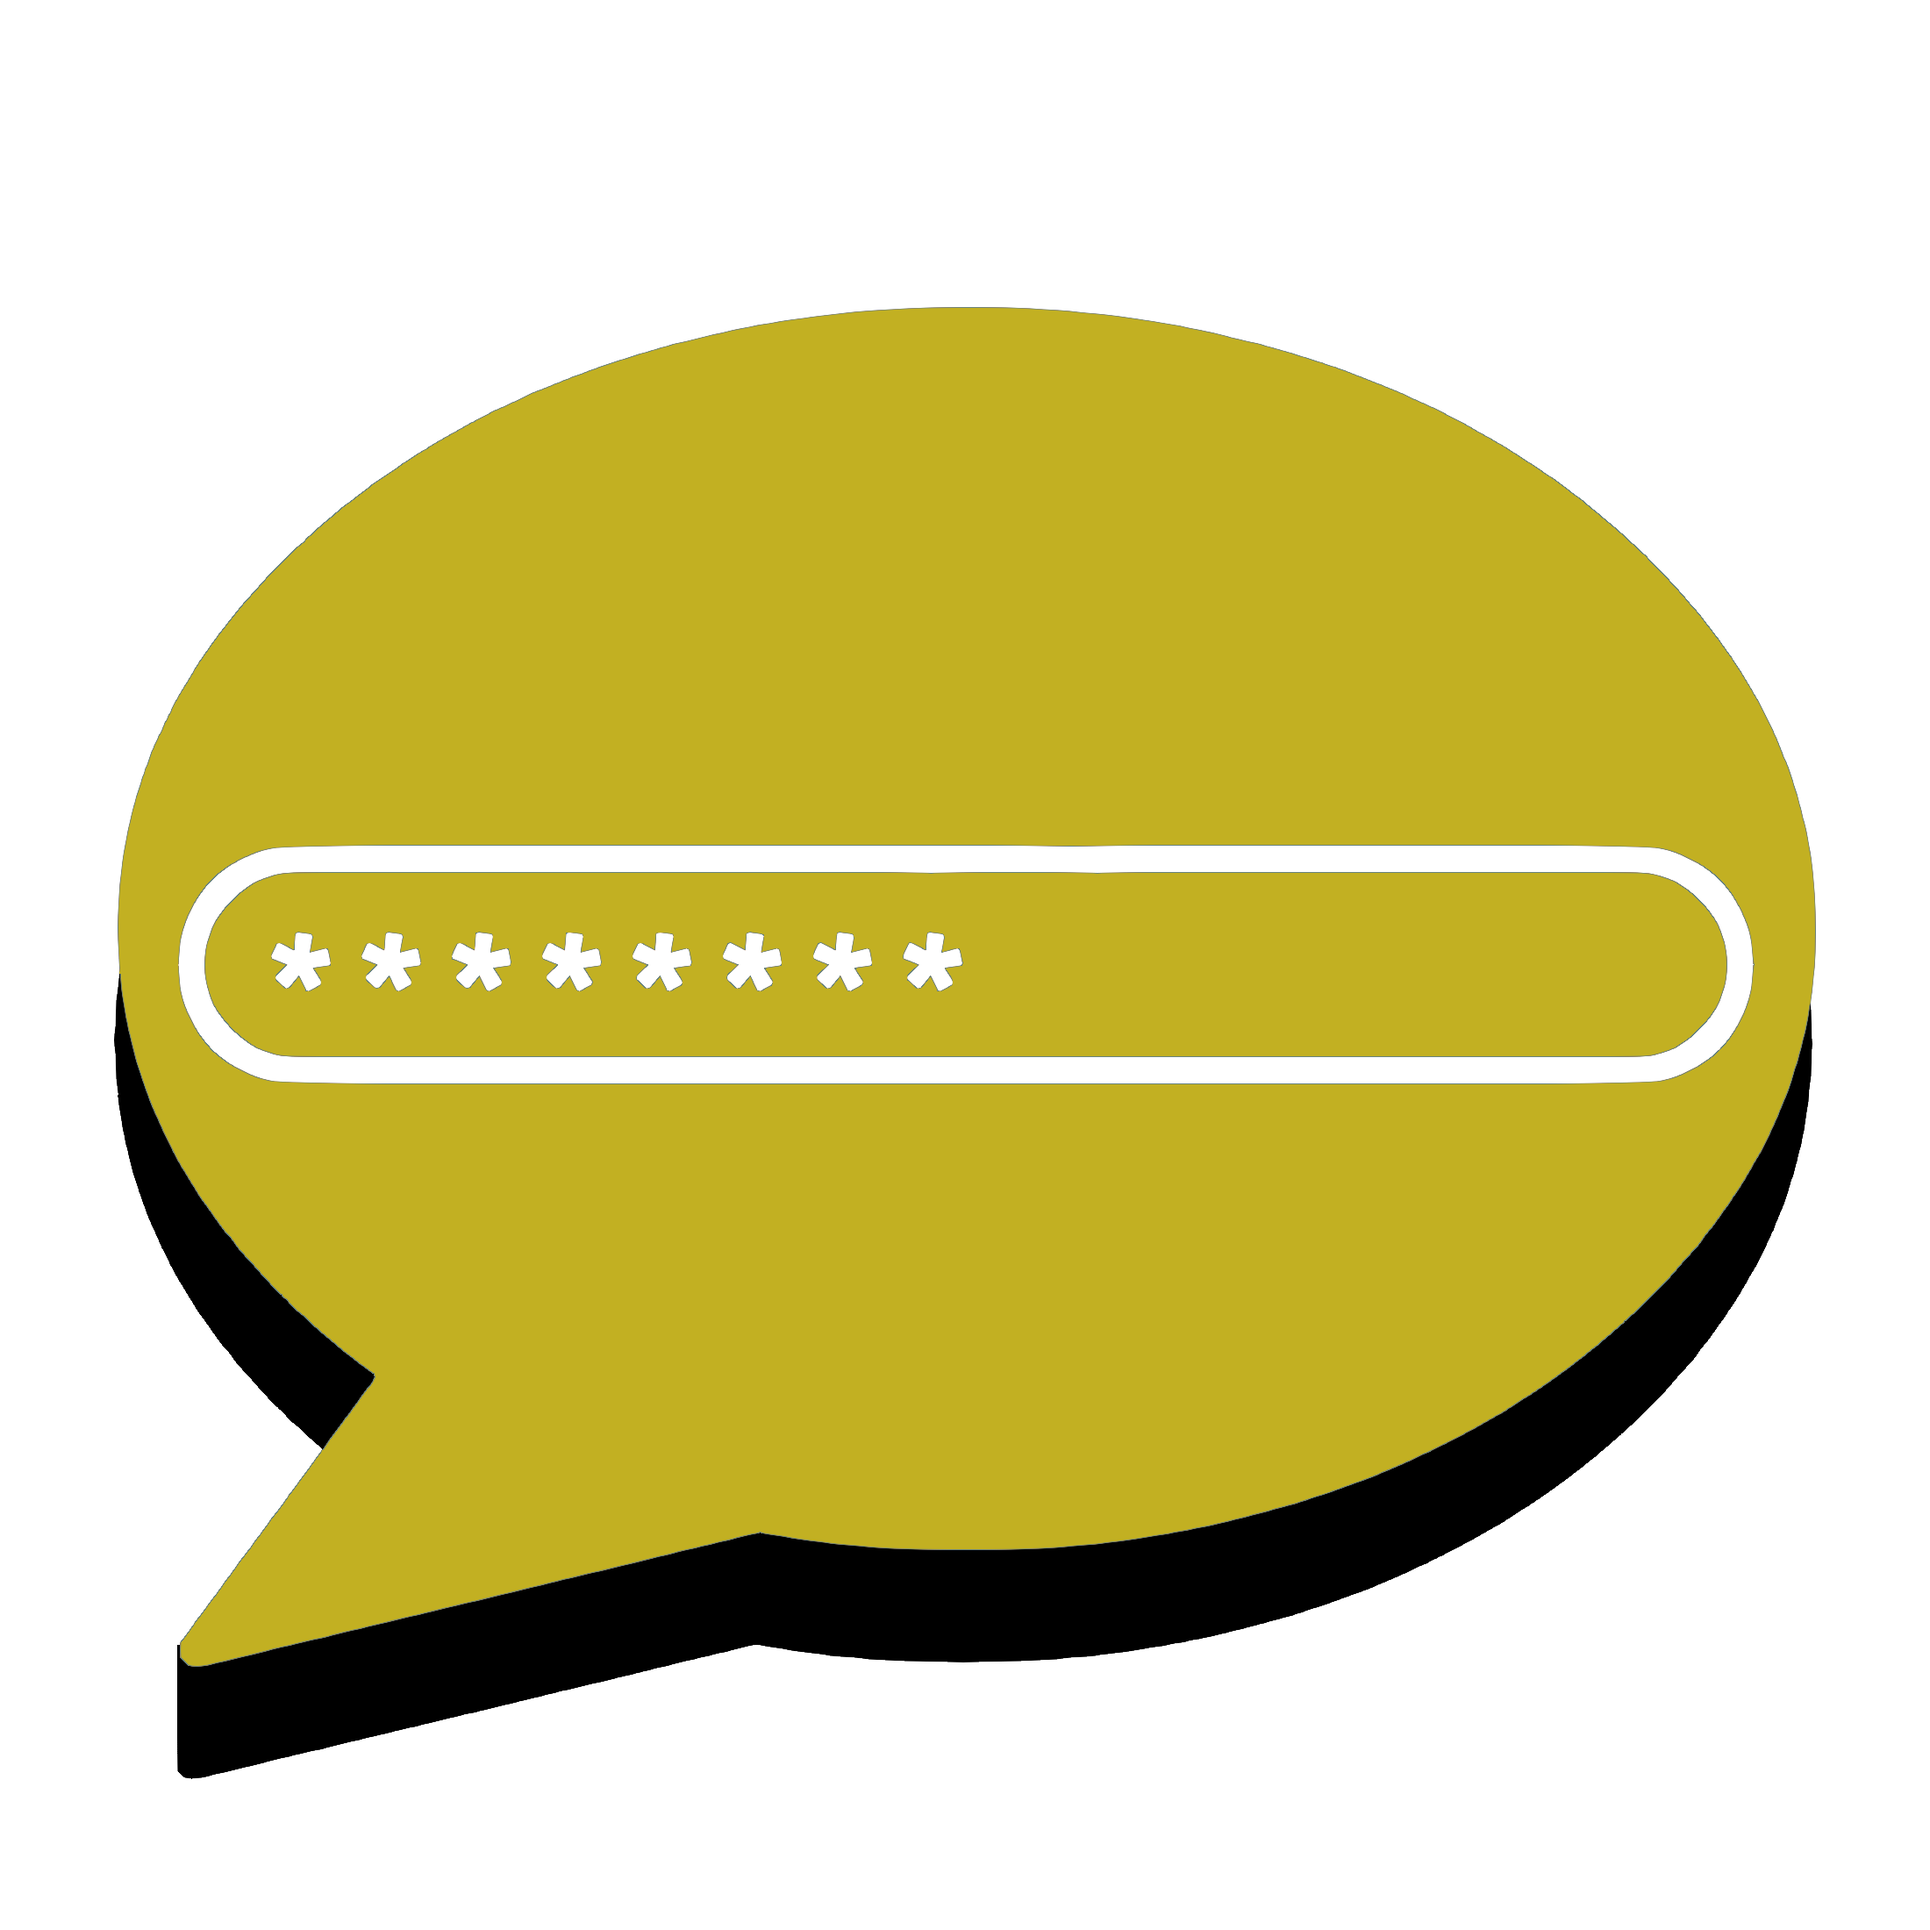
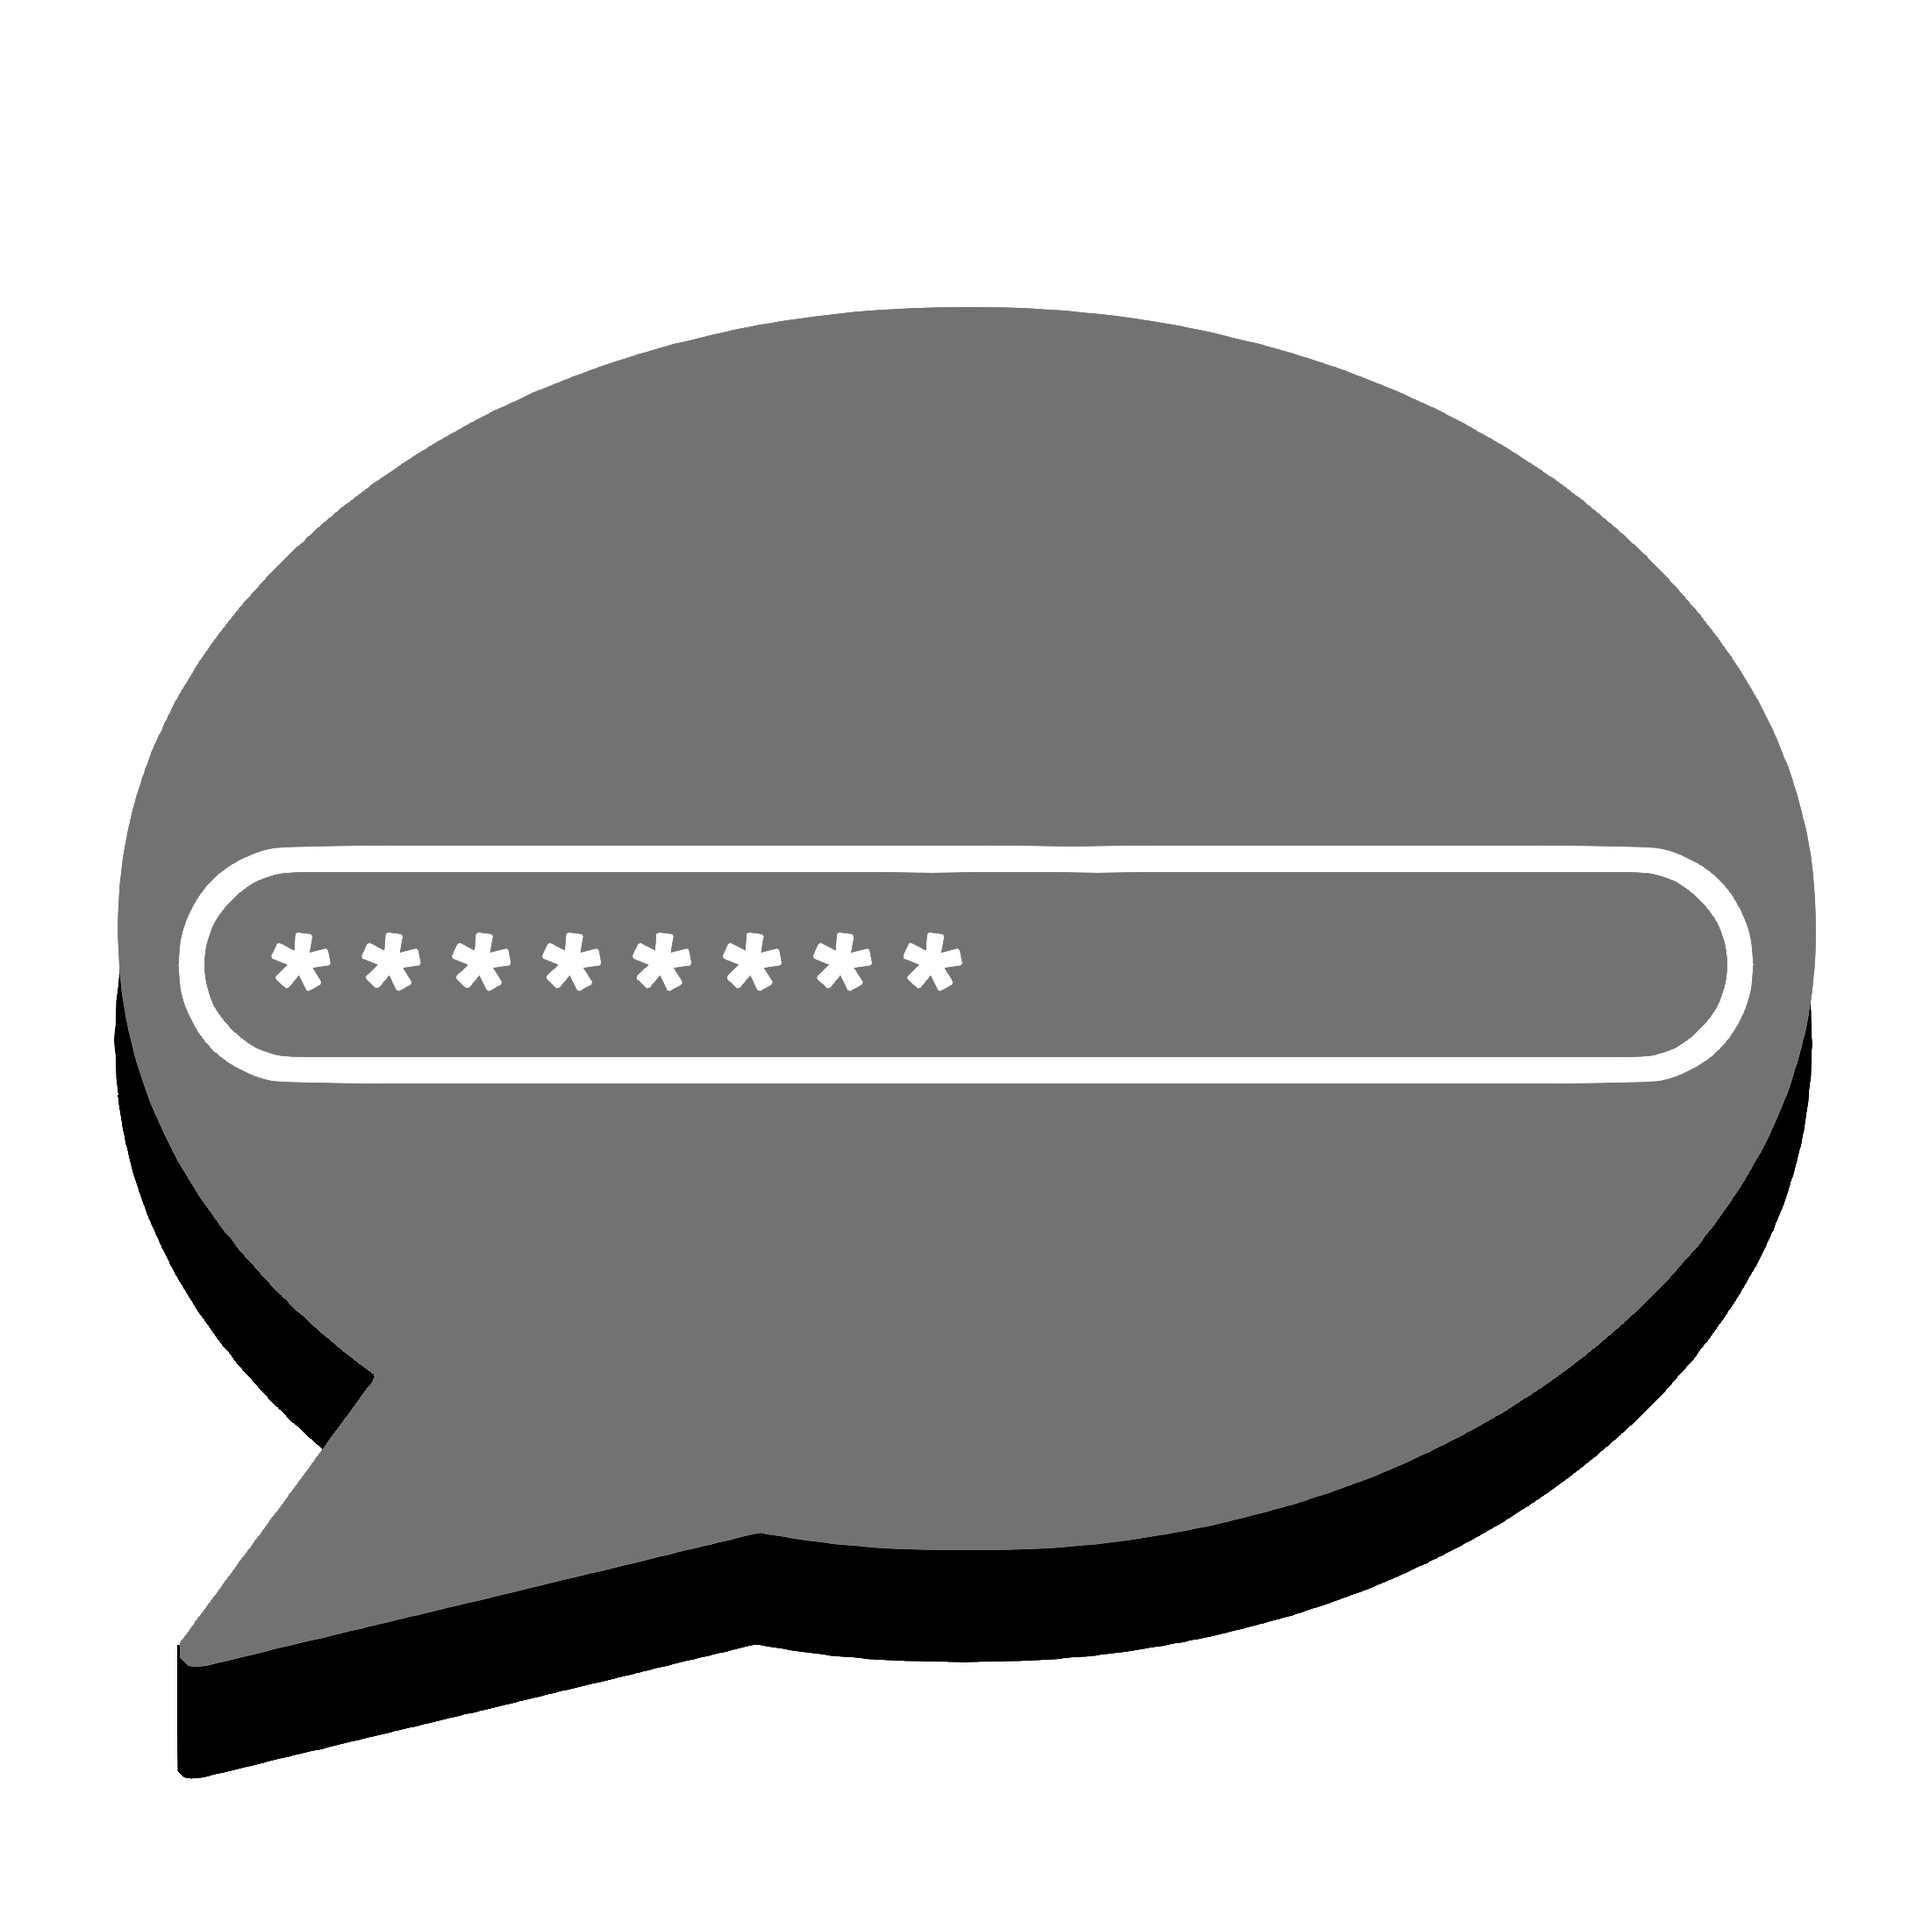
fost2

diff --git a/docs/index.html b/docs/index.html
@@ -218,7 +218,7 @@ audio {
   background-position: center center;
   background-size: contain;
   border: double 5px #ffffff;
-  background-color: #c2b022;
+  background-color: #727272;
 }
 /* PasswordUnlockBar */
 .PasswordUnlockBar {
@@ -1191,7 +1191,7 @@ li {
             <tr>
               <td>
                 <a href="https://fostmp3s.com/info" target="_blank">
-                  <div style="text-decoration: underline; color: #ffe0f5;" alt="Foster Lancaster" title="Foster Lancaster">
+                  <div style="text-decoration: underline; color: #727272;" alt="Foster Lancaster" title="Foster Lancaster">
                     Foster Lancaster
                   </div>
                 </a>
